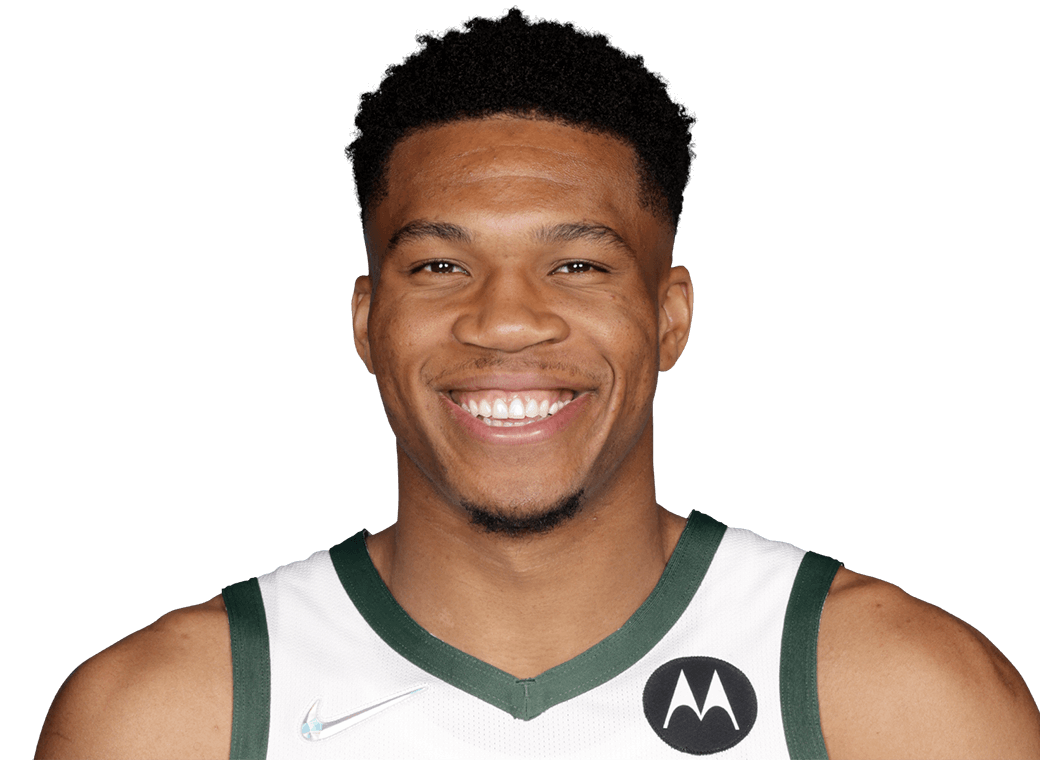
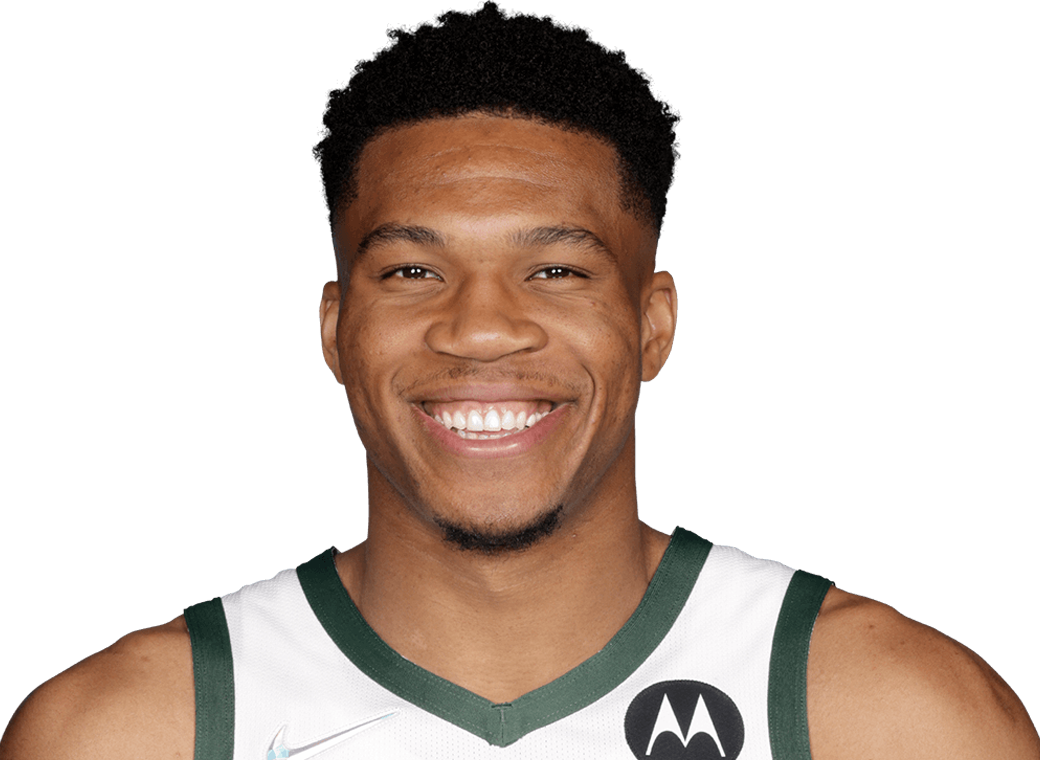
Adjusted dimentions for photos.

Changed region(s): [[0.0, 0.0, 1.0, 1.0], [0.5846, 0.8171, 0.6154, 0.8474], [0.5846, 0.0605, 0.6154, 0.0908]]

diff --git a/AboutUs.html b/AboutUs.html
@@ -3,6 +3,7 @@
 	<head>
 		<meta name ="viewport" content="width=device-width, initial-scale=1.0">
 		<link rel="stylesheet" href="styles.css">
+		<meta charset="utf-8">
 		<title>About Us</title>
 		<link rel="icon" type="image/x-icon" href="Images/favicon.png">
 	</head>
@@ -19,47 +20,52 @@
 			<a href="ContactUs.html">Contact Us</a>
 		</div>
 		
-		<img class=left src="Images/Giannis.png" width=540 height=380 id="Giannis">
-		<p>
-			Giannis Sina Ugo Antetokounmpo is a Greek professional basketball 
-			player for the Milwaukee Bucks of the National Basketball Association. 
-			Antetokounmpo's nationality, in addition to his size, speed and 
-			ball-handling skills have earned him the nickname "Greek Freak".
-		<br><br>
-			Born and raised in Athens to Nigerian immigrants, Antetokounmpo began 
-			playing basketball for the youth teams of Filathlitikos in Athens. 
-			In 2011, he began playing for the club's senior team before entering 
-			the 2013 NBA draft, where he was selected 15th overall by the Bucks. 
-			In 2016–17 he led the Bucks in all five major statistical categories 
-			and became the first player in NBA history to finish a regular season 
-			in the top 20 in all five statistics of total points, rebounds, 
-			assists, steals, and blocks. He received the Most Improved Player 
-			award in 2017. Antetokounmpo has received six All-Star selections, 
-			including being selected as an All-Star captain in 2019 and 2020, 
-			as he led the Eastern Conference in voting in these two years.
-		<br><br>
-			One of basketball's most decorated players, Antetokounmpo won 
-			back-to-back NBA Most Valuable Player Awards in 2019 and 2020, 
-			joining Kareem Abdul-Jabbar and LeBron James as the only players in 
-			NBA history to win two MVPs before turning 26. Along with his MVP 
-			award, he was also named the NBA Defensive Player of the Year in 2020, 
-			becoming only the third player after Michael Jordan (1988) and Hakeem 
-			Olajuwon (1994) to win both awards in the same season. In 2021, Antetokounmpo 
-			led the Bucks to their first NBA championship since 1971 and was 
-			named Finals MVP. The same year, he was selected on the NBA 75th Anniversary Team.
-		<br><br>
-			All credited to Giannis Wikipedia.
-			<a href="https://en.wikipedia.org/wiki/Giannis_Antetokounmpo">Giannis Antetokounmpo Wikipedia Link</a>
-		<br><br>
-		</p>
+		<div class="container">
+			<img class="container__photo" src="Images/Giannis.png" id="Giannis">
+			<div class="container_text">
+				<p>
+					Giannis Sina Ugo Antetokounmpo is a Greek professional basketball 
+					player for the Milwaukee Bucks of the National Basketball Association. 
+					Antetokounmpo's nationality, in addition to his size, speed and 
+					ball-handling skills have earned him the nickname "Greek Freak".
+				<br><br>
+					Born and raised in Athens to Nigerian immigrants, Antetokounmpo began 
+					playing basketball for the youth teams of Filathlitikos in Athens. 
+					In 2011, he began playing for the club's senior team before entering 
+					the 2013 NBA draft, where he was selected 15th overall by the Bucks. 
+					In 2016–17 he led the Bucks in all five major statistical categories 
+					and became the first player in NBA history to finish a regular season 
+					in the top 20 in all five statistics of total points, rebounds, 
+					assists, steals, and blocks. He received the Most Improved Player 
+					award in 2017. Antetokounmpo has received six All-Star selections, 
+					including being selected as an All-Star captain in 2019 and 2020, 
+					as he led the Eastern Conference in voting in these two years.
+				<br><br>
+					One of basketball's most decorated players, Antetokounmpo won 
+					back-to-back NBA Most Valuable Player Awards in 2019 and 2020, 
+					joining Kareem Abdul-Jabbar and LeBron James as the only players in 
+					NBA history to win two MVPs before turning 26. Along with his MVP 
+					award, he was also named the NBA Defensive Player of the Year in 2020, 
+					becoming only the third player after Michael Jordan (1988) and Hakeem 
+					Olajuwon (1994) to win both awards in the same season. In 2021, Antetokounmpo 
+					led the Bucks to their first NBA championship since 1971 and was 
+					named Finals MVP. The same year, he was selected on the NBA 75th Anniversary Team.
+				<br><br>
+					All credited to Giannis Wikipedia.
+					<a href="https://en.wikipedia.org/wiki/Giannis_Antetokounmpo">Giannis Antetokounmpo Wikipedia Link</a>
+				</p>
+			</div>
+		</div>
 		
-		<div>
-			<img class=left src="Images/GarlicKnots.jpg" width=540 height=380 id="Garlic Knots">
-			<p><br>
-				Our homemade garlic knits are extra fluffy and soft. They are made with 
-				Giannis' favorite 6 ingredient pizza dough topped off with our famous 
-				flavorful garlic herb butter both before AND after baking.
-			</p>
+		<div class="container">
+			<img class="container__photo" src="Images/GarlicKnots.jpg" id="Garlic Knots">
+			<div class="container__text">
+				<p>
+					Our homemade garlic knits are extra fluffy and soft. They are made with 
+					Giannis' favorite 6 ingredient pizza dough topped off with our famous 
+					flavorful garlic herb butter both before AND after baking.
+				</p>
+			</div>
 		</div>
 	</body>
 </html>

diff --git a/styles.css b/styles.css
@@ -204,3 +204,25 @@ p
 	width: 30px;
 	height: 30px;
 }
+
+.container
+{
+	display: flex;
+	padding: 1%;
+	width: 98%;
+	height: auto;
+	&__photo
+	{
+		float: left;
+		display: inline-block;
+		width: 30%;
+		height: auto;
+		vertical-align: top;
+	}
+	&__text
+	{
+		display: inline-block;
+		width: 60%;
+		height: auto;
+	}
+}
